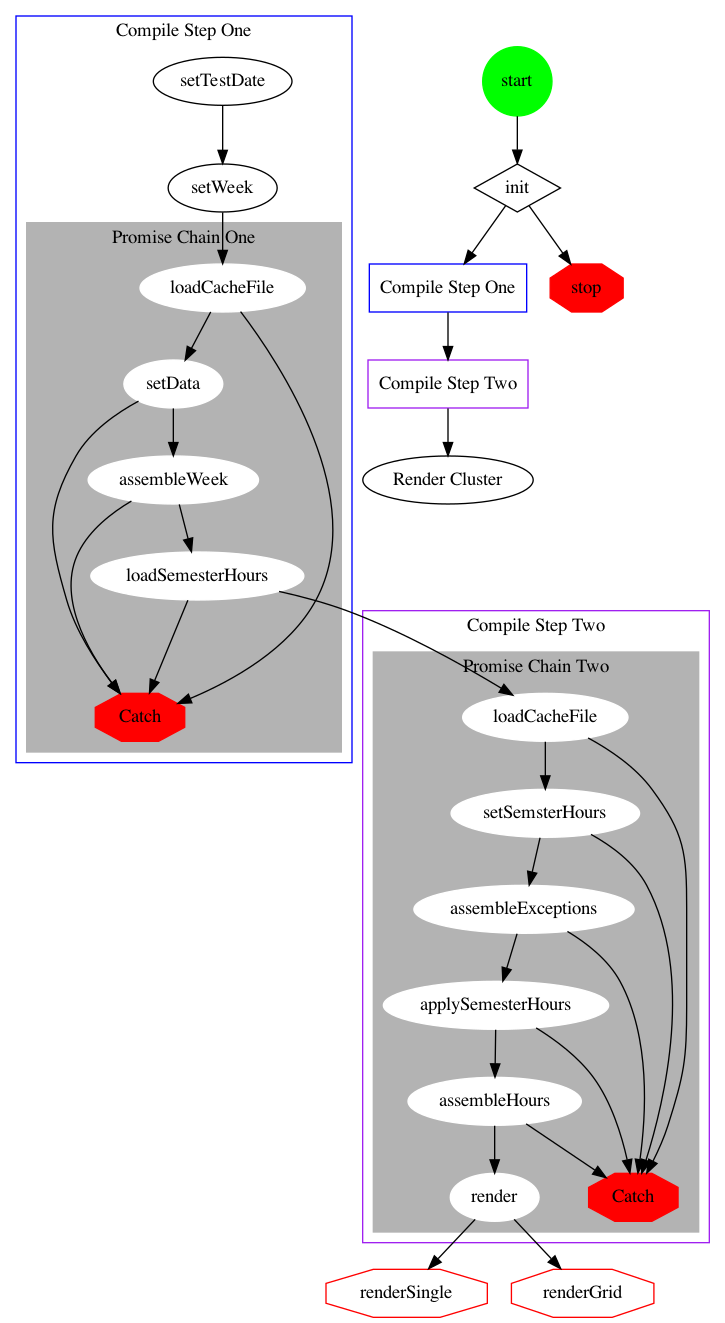
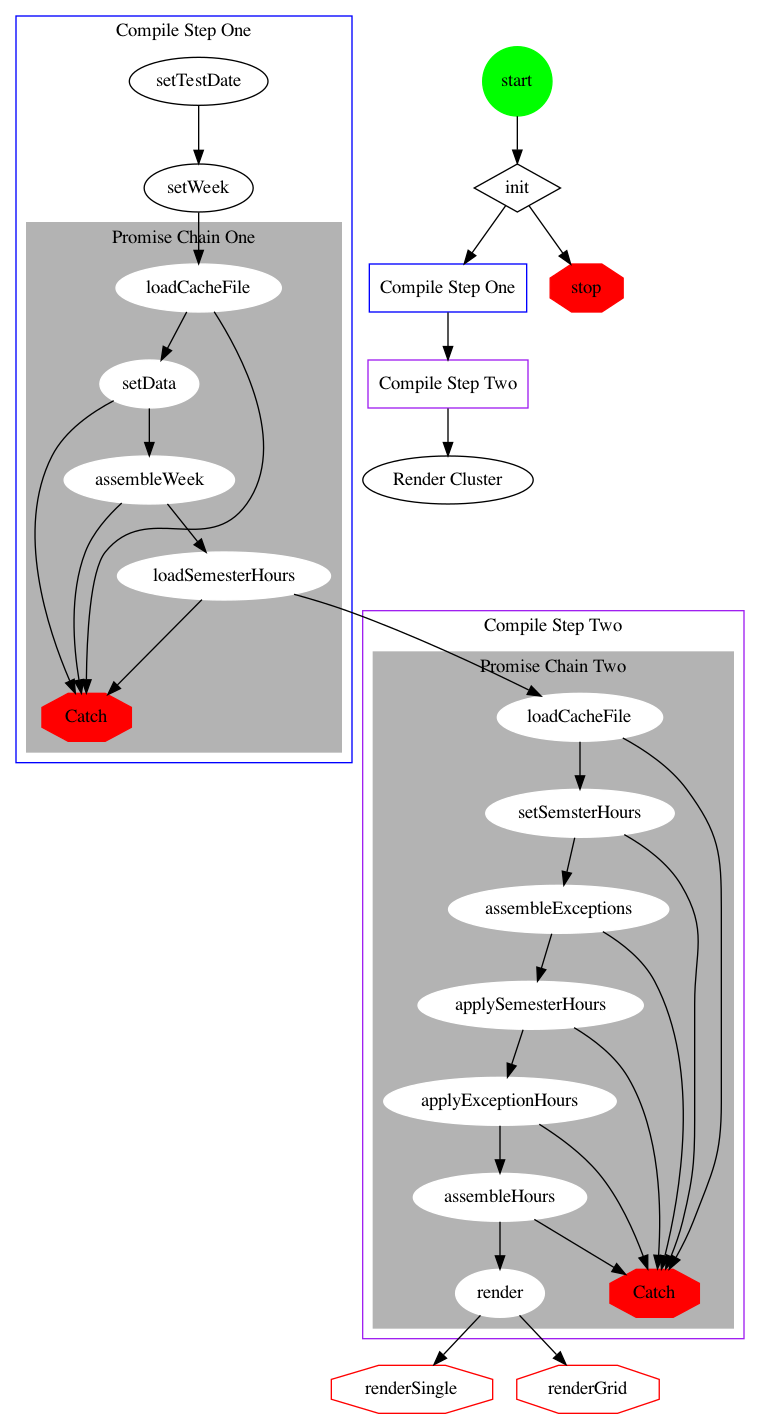
Applies reported exceptions to compiled list of hours

Changed region(s): [[0.0, 0.0, 1.0, 1.0]]

diff --git a/js/hours-loader.js b/js/hours-loader.js
@@ -67,6 +67,58 @@ var HoursLoader = {
 		]);
 	},
 
+	// This method applies the remaining exceptions that still exist in memory.
+	// (The list of exceptions was previously filtered in assembleExceptions)
+	applyExceptionHours: function() {
+		this.logArray('Applying (already-filtered) hours exceptions to location arrays');
+		// Transfer values into local scope for anonymous functions.
+		var exception_hours, haystack, locations, logArray, needle, week;
+		logArray = this.logArray;
+		locations = this.locations;
+		this.logArray([
+			'Current state of compiled hours:',
+			locations
+		]);
+		week = this.week;
+		// This builds an array of dates in a comparable format to how the exceptions are recorded.
+		haystack = _.map(week, function(day) {
+			return(moment(day).format('M/D/YYYY'));
+		});
+		this.logArray([
+			'Haystack for searching within the following loop:',
+			haystack
+		]);
+		// Loop over our array of exceptions...
+		_.each(this.exceptions, function(exception, i) {
+			exception_hours = exception.slice(2); // Skips first two values
+			// Extract the actual new values into a separate array.
+			// Exception[0] is a text string describing why the exception exists. It is never displayed.
+			// Exception[1] is the effective date, which we need to look up in the week array.
+			needle = exception[1];
+			target = _.indexOf(haystack, needle);
+			// The haystack dates are already sorted with Monday first, so the index find just above
+			// only needs to be increased by one due to the compiled array-of-arrays having a label field.
+			target_column = target + 1;
+			values = _.pluck(locations, target_column);
+			// Iterate over the new values, overwriting any non-blank values
+			_.each(exception_hours, function(new_value, j) {
+				// The index j of this loop is within the 12-element list of locations.
+				// In order to transfer this accurately to the compiled hours information, we increment by two.
+				// (see note above about our not storing exceptions for the chat service hours)
+				if ( "" !== new_value && undefined !== new_value ) {
+					target_row = j + 1; // offset one row because of row labels
+					locations[target_row][target_column] = new_value;
+				}
+			});
+		});
+		this.locations = locations;
+		this.logArray([
+			'Hours with all exceptions applied:',
+			this.locations,
+			'\n'
+		]);
+	},
+
 	// This method transposes the exceptions array of arrays
 	// From https://stackoverflow.com/a/17428779/2245617
 	assembleExceptions: function() {
@@ -240,6 +292,9 @@ var HoursLoader = {
 		)
 		.then(
 			this.applySemesterHours.bind(this)
+		)
+		.then(
+			this.applyExceptionHours.bind(this)
 		)
 		.then(
 			this.assembleHours.bind(this)
